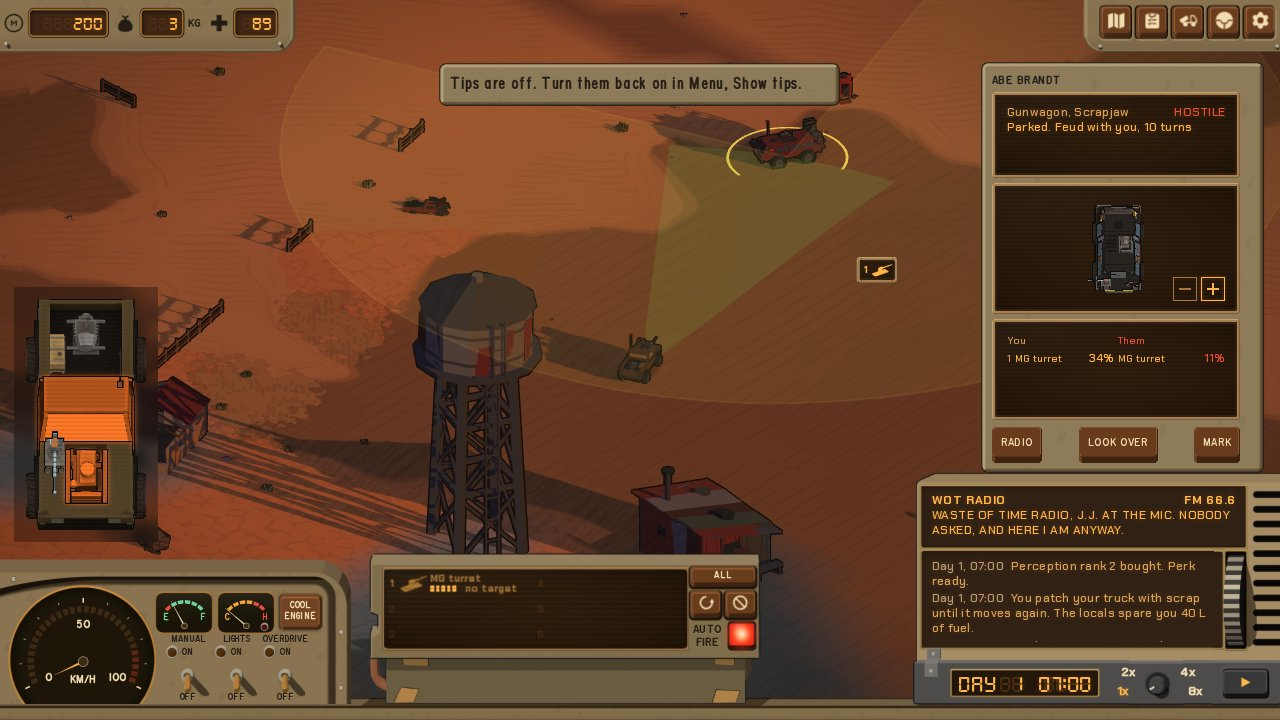
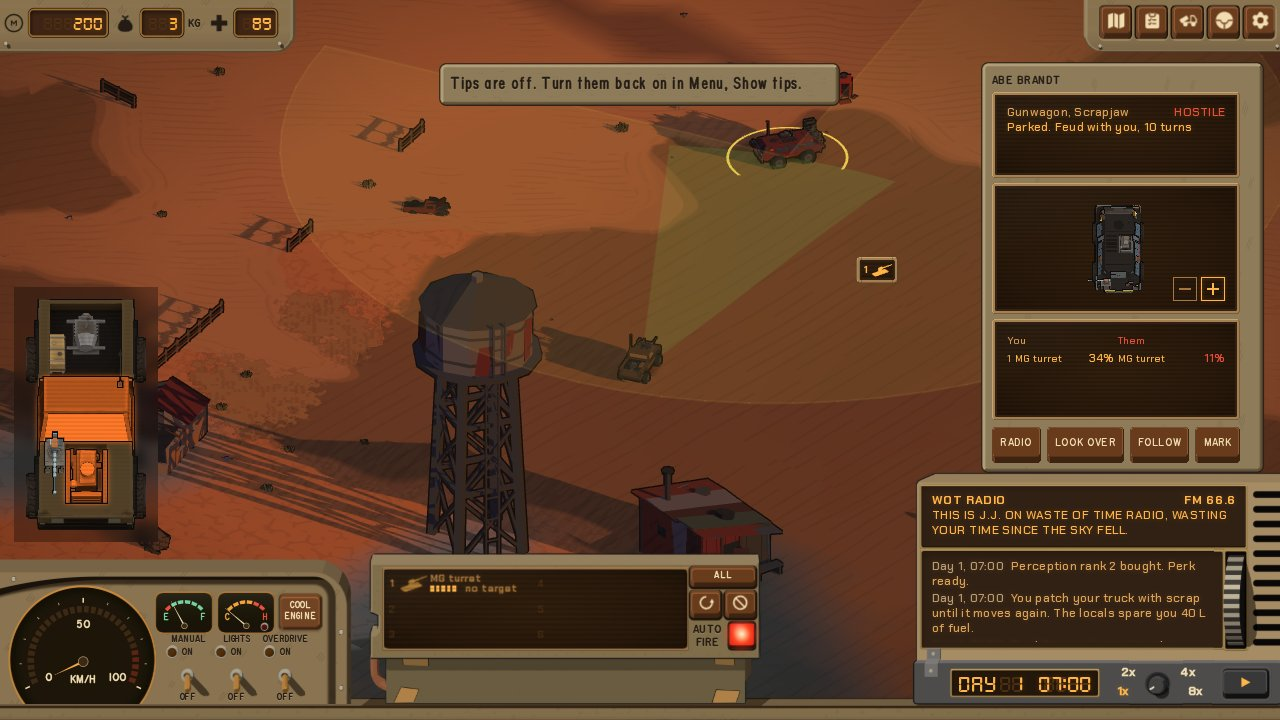
Document following a truck

Changed region(s): [[0.7188, 0.7028, 0.9688, 0.7639], [0.7812, 0.5806, 0.9375, 0.6417]]

diff --git a/game/docs/ui.md b/game/docs/ui.md
@@ -485,7 +485,7 @@ Use a shared piece before writing a new rule. A screen may add its own layout to
 - A contract is one row form in three places. A held row (`.job.held`) is the title over a meta row (`.job-meta`: clock and pay) and the action. An offer row on the board (`.job.offer`) has the same areas, with the truck's need (`.need`: cells, spare goods or win chance, `bad` when unmet) in the meta row. Each Accept shows its refusal reason beside it. The board puts offers beside the held well (`--board-held-width`), and neither scrolls in the standard states.
 - `.contract-clue` is one told clue per survey place still open, on its own line under its contract. It starts with the place kind, then the map grid square the place lies in, like "square C4" (`gridSquareText()` in `src/ui/format.ts`, the one way a square prints), and ends with a `.tag` marked "found" when the place has been spotted but not surveyed. The HUD contracts dock prints it as the short compass clue, then what the place looks like (`surveyClueLines()`). Board and held rows keep the same clue as the row tooltip (`surveyClueTip()`), and the journal tells the way as `.way-steps`. The HUD dock also prints a held claim in short form (part, wreck and square, from `dockSummary()`), while the journal and the board keep the full clue.
 - `.way-steps` is a numbered list of directions, built from `directionsSteps()` in `src/ui/directions-text.ts`: one `li` per step, the number in caption ink on a fixed column and the text wrapping under its own text. The radio keeps the same steps as one run of sentences through `directionsText()`.
-- `.info-actions` is the action row of the truck card. It is the foot row of the card: the last row, right-aligned, wrapping right-aligned on the narrow dock. This row's place is the truck card's own bend, not the pattern for actions: an action on a selected thing uses `.action-rows` after its facts. It holds Call, Look over and Mark as `.btn-s`, in that order, each shown by its own unlock: Call for a driven truck in a mode with the radio, Look over with the Perception basic, Mark with the Spotter perk. A refused button stays, dimmed, with its reason from the sim query (`callError()`, `lookOverError()`, `markError()`). Off touch each label ends in a `.key` cap from `keyCap()`, T, B and N, and on touch there are none. A pinned card has its close key at the right of the title row, with Esc in its tooltip off touch, and a hover-only card has none. A click does what the key does. The row sits at the card's foot, so controls keep a fixed place (P14). The Marked countdown stays a quiet state line.
+- `.info-actions` is the action row of the truck card. It is the foot row of the card: the last row, right-aligned, wrapping right-aligned on the narrow dock. This row's place is the truck card's own bend, not the pattern for actions: an action on a selected thing uses `.action-rows` after its facts. It holds Call, Look over, Follow and Mark as `.btn-s`, in that order, each shown by its own unlock: Call for a driven truck in a mode with the radio, Look over with the Perception basic, Follow always, Mark with the Spotter perk. Follow stays lit (`aria-pressed`) while the player follows that truck, and pressing it again stops. A refused button stays, dimmed, with its reason from the sim query (`callError()`, `lookOverError()`, `followError()`, `markError()`). Off touch each label ends in a `.key` cap from `keyCap()`, T, B, K and N, and on touch there are none. A pinned card has its close key at the right of the title row, with Esc in its tooltip off touch, and a hover-only card has none. A click does what the key does. The row sits at the card's foot, so controls keep a fixed place (P14). The Marked countdown stays a quiet state line.
 - `.key` is a keyboard key or a mouse button, drawn as the baked keycap at the small key edge, as in the help panel. A shortcut listens for the physical key (`KeyboardEvent.code`), never the typed character, so it works in every keyboard layout. The keycap text is only a label.
 - `.amount .coin` is money from `moneyEl()`: the coin, sized in em by the text around it, then the number. The coin colors are the `--coin-*` tokens.
 - The HUD's truck diagram (`TruckConditionView` with `CONDITION_LENGTH_M` in `src/ui/hud.ts`) draws every truck at one scale, 30 px for 0.65 m, and shows a truck up to 7.8 m long at full size. A longer chassis, like the 11 m sorokonoga, zooms the whole diagram down until it fits, so the bottom left zone keeps its height and the parts keep their icons and colors. Only the HUD diagram shrinks, and its tip and marks keep their size. `chooseLayout()` in `src/ui/inventory-draw.ts` fits every desktop inventory grid with no scroll. It takes the room and the truck, and returns the columns, the cargo's place and the cell size. Cells run up to 42px with no floor, and a long truck gets smaller cells, not squashed ones. In each room, for three columns and then for two, it scores cargo below and cargo beside by the truck's cell and keeps the larger, and a tie keeps below. The first room whose winner reaches 24px wins, and otherwise the largest. A stacked screen, on a narrow layer, keeps a 28px floor and scrolls instead, through `stackedLayout()`. The fit holds across redraws and changes only when the truck, its row count, the UI size or the room changes, so a click, a purchase or a comparison never resizes the grid unless it adds cargo rows.
@@ -583,7 +583,7 @@ A screen where the player works on a truck has three columns: the subject on the
 1. Decision: fight, talk or leave, and if I fight, where do I aim.
 2. Key facts: who it is and its stance, my chance on it, its chance on me, and the drawing for aiming. Supporting facts: truck type, faction, motion, activity and states. Reference: the causes of each chance, in the tooltip on the chance. Distance is left out, because it changes no choice here and range already shows in the chances and their causes.
 3. Surface: the cursor card, in the right column, at the medium panel width and the radio's right edge, one HUD gap under the system row. The card has one size for every truck, `--hud-info-h` high, so the enemy card and the semi card match. The picture screen takes the height that the rows leave, and the gun table scrolls once it fills half the card. The floor is the log's top edge, or the top of the instruments when their buttons reach under the card. When the floor is higher than the card's bottom, the card stops at the floor. The dock panels and the log hide while the card covers them.
-4. Grid: the head row holds the name, and the close key at the right when the card is pinned. Below it, the truck type and faction in muted ink, and the stance tag at the right edge. The state line under it starts with Parked or Moving and the speed, then the activity and the states. Below, the drawing sits in its picture screen, glass with the recess, and the truck is scaled to fit it on its tight axis, up to the zoom where one picture pixel meets one screen pixel (never under 1.5x). The player magnifies it from there with the − and + screen buttons in the screen's bottom right corner (see Hover shows the part name). Under it You and Them sit side by side in a strip that hugs their rows (wells of at least `--info-well-min`, stacked on the narrow dock). Call, Look over and Mark sit in a foot row (`.info-actions`) with no keycaps on their faces. The lists never scroll at 1280x720, even with nine guns. Only on a window under 720px tall, do they scroll inside the card, and the drawing keeps a minimum height. The card keeps its box while a turn plays, so the drawing does not refit.
+4. Grid: the head row holds the name, and the close key at the right when the card is pinned. Below it, the truck type and faction in muted ink, and the stance tag at the right edge. The state line under it starts with Parked or Moving and the speed, then the activity and the states. Below, the drawing sits in its picture screen, glass with the recess, and the truck is scaled to fit it on its tight axis, up to the zoom where one picture pixel meets one screen pixel (never under 1.5x). The player magnifies it from there with the − and + screen buttons in the screen's bottom right corner (see Hover shows the part name). Under it You and Them sit side by side in a strip that hugs their rows (wells of at least `--info-well-min`, stacked on the narrow dock). Call, Look over, Follow and Mark sit in a foot row (`.info-actions`) with no keycaps on their faces. The lists never scroll at 1280x720, even with nine guns. Only on a window under 720px tall, do they scroll inside the card, and the drawing keeps a minimum height. The card keeps its box while a turn plays, so the drawing does not refit.
 5. Lists: the drawing is the aiming surface, so it gets the most room. The chances are what the player reads, so they sit right under it. With many guns the lists take height and the drawing's cells may fall under 24px, which bends section 6's click minimum. You sits in a well with a neutral edge, and Them in a well with a danger edge. One line per gun: your key for the gun, the gun's name in caption size, then the chance. A long name wraps to two lines, and a blocked gun says why on a second line, out of range, out of arc or shut down.
 6. Color: hostility only in the tag, in danger ink with no box. Chances by value: 50% and up brighter, 0% faint, the enemy's in danger ink. Parts show the same picture as the player's own truck drawing: their own color when healthy and a tier color only for damage.
 7. Type: four roles. Title for the name, body for words, caption for list heads, keys and gun names, mono for chances.

diff --git a/game/docs/wiki/mechanics/turns.md b/game/docs/wiki/mechanics/turns.md
@@ -14,7 +14,7 @@ A target can move out of a projectile's path. Broken guns lose their later attem
 
 Each chassis has max speed, acceleration, braking and turn rates. Momentum carries over: the speed you have is a committed distance for next turn. Brakes slow a truck at a steady rate set by its brake stat and the ground's grip, so the stopping distance grows with the square of speed. A scout stops from 95 km/h in about 20 m, and a truck on glass needs five times as far as on sand. Faster trucks turn less per turn. Vehicles are physics bodies with suspension. A truck in the air tips toward the ground under it, so a fast truck off a ridge lands on its wheels, not its nose. Time only runs while a turn plays: each turn simulates one second of driving. When turns stop, the world slows to rest over about a second. The trucks coast a little further, and that coasting is real, so the next turn starts where they rest. Rounds and shells still in the air hang there until the next turn. An open panel or the menu freezes the world at once, also mid-turn, and closing it lets everything go on from where it stopped. A key, switch or click that a turn would drop waits until that turn ends, then runs once, in the order pressed, against the world as it is then. Save is the exception: it writes the world the playing turn started from, and Load, New game and Get unstuck need no wait. A Space tap while a turn plays queues one more turn, however many times it is tapped. Slopes, bumps and collisions come from the physics. An engine pulls harder against a climb than on flat ground, so loaded trucks still crawl up steep hills, even though flat starts pick up slowly. A truck without a working engine or fuel is pushed along at its own slow limp pace, which engine tuning does not change. A truck under power is never slower than the same truck pushed. A landing hurts by how hard the truck comes down into the ground, so driving over a crest and down the slope is safe, while a drop is not. A truck stopped on its brakes holds still on any slope its tires grip, and slides only where the ground is too slick for the slope, as glass is.
 
-A click sets a point to drive through. A click on that point switches it to a stop, and Shift-click sets a stop at once. A stop brakes on the point and takes corners carefully. A click inside a place, within its walls, stops at its pad nearest the truck. A click on the open ground beside the walls is an ordinary point. Clicking anywhere on your own moving truck brakes it, even where a rock covers it, and the pointer turns into a hand while it is on it.
+A click sets a point to drive through. A click on that point switches it to a stop, and Shift-click sets a stop at once. A stop brakes on the point and takes corners carefully. A click inside a place, within its walls, stops at its pad nearest the truck. A click on the open ground beside the walls is an ordinary point. Clicking anywhere on your own moving truck brakes it, even where a rock covers it, and the pointer turns into a hand while it is on it. Follow on another truck's card (K) ties your truck to that truck: each turn it drives to a spot beside or behind it at its speed, as an NPC follower does, and it never arrives, so automatic travel keeps going. A click on the ground, a brake, a new travel goal or manual driving ends it with no message. It also ends, with a log line and a toast, when the truck is out of sight, gone, knocked out or turns hostile. Combat does not end it. Follow is refused for a truck you cannot see, a hostile one or a knocked-out one.
 
 In route mode the truck picks its own speed, unless the player holds one. The colored zones show in route mode too, and a plain click inside them sets the route's held speed by the band it lands in: red holds a crawl, 1 tile per turn or 14.4 km/h, under the speed where a truck raises dust, yellow holds the speed the truck has now (never under a crawl, and nothing at top speed), and green holds nothing, the full route speed of the rules below. At rest the whole fan is green. The truck holds the speed every turn of the route, a stop point included, and a stop point still slows it onto the point. When the order's point lies beyond the zones' reach, a click in the zones changes only the speed and keeps the point. A click outside them, a Shift-click, a site click and a click on the point itself keep the held speed on the new order. The held speed ends with the order: on arrival, on a brake, on a green click, and on switching to manual driving. The hover ring and the first planned turn take the color of the held speed, and the speed dial marks it. Manual driving carries no pace and sets speed with each click. In route mode, with no held speed, the truck speeds up toward a drive-through point it will not reach this turn, fully when the point is far, and keeps its speed for a point it will reach this turn, never braking for it. A stop point brings it up to speed and slows it gradually onto the point. In manual driving the truck keeps a set speed, like a throttle, and the speed dial marks it with a tick. Switching to manual driving sets it to the speed the truck has. The zones split the distance from the truck into red, yellow and green, the same in every direction, and the cones ahead show them. A click changes the set speed once, when it is made, by its distance: red lowers it by 20 km/h, yellow keeps it, and green or anything farther raises it by 20 km/h, never past top speed. Space with no click keeps it. A click while a turn plays counts from where the truck ends that turn, where the zones are drawn, and sets the order and set speed for the next turn. The truck counts as stopped when its set speed is zero, so a truck backing up at a set speed shows all three zones. A stopped truck can only speed up, so every click is green and a click in any direction starts it. After the click the point only steers, so driving up to it never slows the truck. Loose ground, a climb or a bump slows the truck only while they last, and it speeds back up to the set speed with no new click. A brake click, or any stop that brings the truck to rest, sets the set speed to zero. A click almost straight behind within reach backs toward that point. A farther click is a course: the truck turns around and follows a route around obstacles over as many turns as it takes, so Space alone carries it there. A point it cannot reach sends it to the closest point it can reach. After the order point, or with no order, the truck coasts on.
 

diff --git a/game/docs/wiki/mechanics/npcs.md b/game/docs/wiki/mechanics/npcs.md
@@ -108,7 +108,7 @@ States are timed relations between two trucks. Each ends as expired, fulfilled o
 
 One truck can follow another as its escort. The follower rides beside its leader's tail at the leader's pace, and resumes following after any fight or tow. The leader waits for an escort that falls a little behind while following, but not for one coming back from afar, and not while it heads for its own service stop. It waits for an escort that stops to repair its truck or to refuel and resupply, until that escort follows again. It does not wait for an escort busy with a fight, nor for one that is stranded or on a tow rope. A courier leader waits for its partner up to 150 tiles back, and a partner that flees runs to its leader when the leader lies away from the threat. An escort far behind drives at full speed and keeps its aim until the leader has moved a good way, so a long chase does not rebuild its route every turn. It treats shots at the leader as shots at itself, so it fights back or flees as it would for itself. It tows a stranded leader to the usual tow site.
 
-A trader that has just bought cargo to carry to another shop may instead post an escort job on that shop's board, more often on a dangerous road. It then parks off the pads and waits up to 75 turns for a taker. A free merc it sees can still hire it, which takes the offer down. A trader that loses all its cargo while it waits stops waiting, and its offer leaves the board. A trader escorted by the player drives its trip, brakes while the player is behind it and drives on while the player is ahead. It waits for a stranded or towed player wherever it is, up to the 120 turns of its patience, and it waits where it is under the radio order Wait here until the order Let's move or 90 turns pass.
+The player can follow an escort client with the Follow key on its card, and the truck then keeps its place beside or behind the client at the client's speed. A trader that has just bought cargo to carry to another shop may instead post an escort job on that shop's board, more often on a dangerous road. It then parks off the pads and waits up to 75 turns for a taker. A free merc it sees can still hire it, which takes the offer down. A trader that loses all its cargo while it waits stops waiting, and its offer leaves the board. A trader escorted by the player drives its trip, brakes while the player is behind it and drives on while the player is ahead. It waits for a stranded or towed player wherever it is, up to the 120 turns of its patience, and it waits where it is under the radio order Wait here until the order Let's move or 90 turns pass.
 
 A trader, courier or roamer on its way to a site may hire a free merc it sees. The fee is the merc's plain running cost to the destination and back plus the lowest wage, and the client must afford it above its upkeep reserve. The merc accepts or refuses, and a hurt merc refuses more often. The client pays once, when it reaches the destination. A territory counts as reached at its edge, where a trip there ends. An escort ends unpaid when either truck is gone, knocked out or turns hostile.
 

diff --git a/game/docs/architecture/bots.md b/game/docs/architecture/bots.md
@@ -21,7 +21,7 @@ The playtest bots drive the player truck through the real turn pipeline, so econ
 - A bot buys chassis only from the lineup of the town it stands in, and sells or prices a good only at a shop that trades it, so relics go to Nose.
 - After a chassis buy, a bot mounts the parts it had fitted from storage with `withRemounted()` in `src/sim/progression/orders.ts`, and `keepsKit` and `keepsItsPace` judge the truck after the same remount.
 - `fastTrader` trades like the trader, buys no armor and picks the fastest chassis.
-- `hauler` takes the best haul contract on every board it reads, by pay per estimated turn. It trades only when no contract fits, so it measures contract pay against open trade. A haul held past its deadline is late: it still drives to the destination and hands in what crates it holds, for no pay. Every bot sells only `spareGoods()`, so the crates a held haul owes stay aboard.
+- `hauler` takes the best haul contract on every board it reads, by pay per estimated turn. It trades only when no contract fits, so it measures contract pay against open trade. While it holds an escort job it presses Follow on its client with `followTruck()` and keeps following, and it drives to a stop beside the client only when Follow is refused, for example when the client is out of sight. A haul held past its deadline is late: it still drives to the destination and hands in what crates it holds, for no pay. Every bot sells only `spareGoods()`, so the crates a held haul owes stay aboard.
 - `procurer` takes the supply order with the best pay per estimated round trip, on a board it is parked at or on a known shop's board the radio announced. It counts its cargo toward the price, sells that cargo where it buys the crates, buys them at the cheapest known shop that sells the good, by that shop's current price, and delivers them. With no order that fits it plays the trader. `src/sim/progression/procurer.ts` holds it, and `src/sim/progression/reach.ts` the fuel reach every bot shares.
 - `scavenger` scavenges first, then trades, then takes hauls.
 - `climber` plays the trader and buys fighting gear.

diff --git a/game/docs/architecture/saves.md b/game/docs/architecture/saves.md
@@ -116,6 +116,7 @@ A Chaos Highway run goes back to the start of the stretch it was on. The start i
 - Step 123 to 124, `withWholeMoney`, turns every saved money amount from hundredths of an M into whole M, rounded up as the old screen showed it, and turns rates like cost basis into fractional M.
 - Step 124 to 125, `withRouteStyles`, turns the `offRoad` flag of each far route into a `style` of `hidden` or `road`.
 - Step 125 to 126, `withSetSpeed`, changes no data. It marks the optional `setSpeed` of a manual driver.
+- Step 150 to 151, `withFollowOrder`, changes no data. It marks the optional `follow` of a move order, the truck the player follows.
 - Step 149 to 150, `withSearchFinds`, changes no data. It marks the optional `found` of a search job, the finds the log has not told yet.
 - Step 127 to 128, `withArmorRowsOutside`, moves every truck's items, refit jobs and queued pickups onto the grid that has the front and back armor rows outside the chassis. Every row of a truck's old grid shifts down one, and rows past the chassis, the bed, down two. A plate on the old nose row goes to the new row 1 (or the new nose row for a shield), and one on the old tail row to the row before the new tail row (or the new tail row for a shield). `readCarried()` reads the old and the new form by format, so the rescue carries the same plates.
 - Step 128 to 129, `withSquareGrid_128_129` in `src/three/save-step-square-grid.ts`, moves every truck's items, refit jobs and queued pickups onto the square grid of 0.45 m cells. Its own frozen copies of the old and new layouts, built-ins and part sizes are in `src/three/save-square-grid-data.ts`, so later layout changes do not move old saves. Built-ins go to their new fixed cells. Every other item goes to the free legal spot nearest its old spot in meters, turned only when it fits nowhere in its own rotation. An item that fits nowhere goes to the player's garage storage from the player's truck, and is dropped from an NPC truck. Each move off the nearest spot, turn and drop writes one console warning that names the truck and the item.

diff --git a/game/docs/architecture/movement.md b/game/docs/architecture/movement.md
@@ -207,6 +207,7 @@ A chassis with a `coupling` is a rig: a driven front unit and a towed rear unit 
 - `src/three/travel.ts` owns automatic order advancement and held-Space state.
 - A click sets a drive-through order. A click on its point switches it between drive-through and stop-at. Shift-click sets stop-at. A click inside a site stops at its nearest pad. `siteUnder()` in `src/sim/sites.ts` reads a fort from its wall outline, so the ground beside the walls takes an ordinary order.
 - `TruckControls.order()` gives every player move order through `playerOrder()` in `src/sim/steering.ts`, which wraps `clickOrder()`. In route mode a click inside the zones' fan, `zoneAt()` and `zoneHalfAngle()`, puts the band's pace on the order and keeps a point beyond the zones' reach. `zonePace()` gives the pace: crawl, the speed now, or none. Any other click keeps the current order's pace.
+- A follow order is a through or stop order with `follow`, the target's vehicle id. `src/sim/follow.ts` owns it: `planPlayerFollow()` runs in the turn pipeline right after `planHaulerOrder()` and re-aims the order with `trailOrder()`, the rule NPC followers use. `settleOrder()` and the far mover never clear or announce an arrival for it. It ends as a plain stop and one `followEnded` event when the target is gone, out of sight, knocked out or hostile, and every command that replaces the order or turns manual on drops it.
 - `orderThrottle()` gives the band an order shows for the hover ring and the first turn's color. The pace lives only on the order, so it ends with it, and `setDirect(true)` drops it.
 - `orderSpeed()` in `src/sim/steering.ts` is the one rule for a move order's target speed, in physics, in far travel and in the fuel check. A paced order, through or stop, holds its pace within a turn's accel and brake, and a stop point still slows onto the point. The escort bot's orders carry no pace.
 - `src/three/render/path.ts` draws the order point with an icon for its kind, also while turns play.
